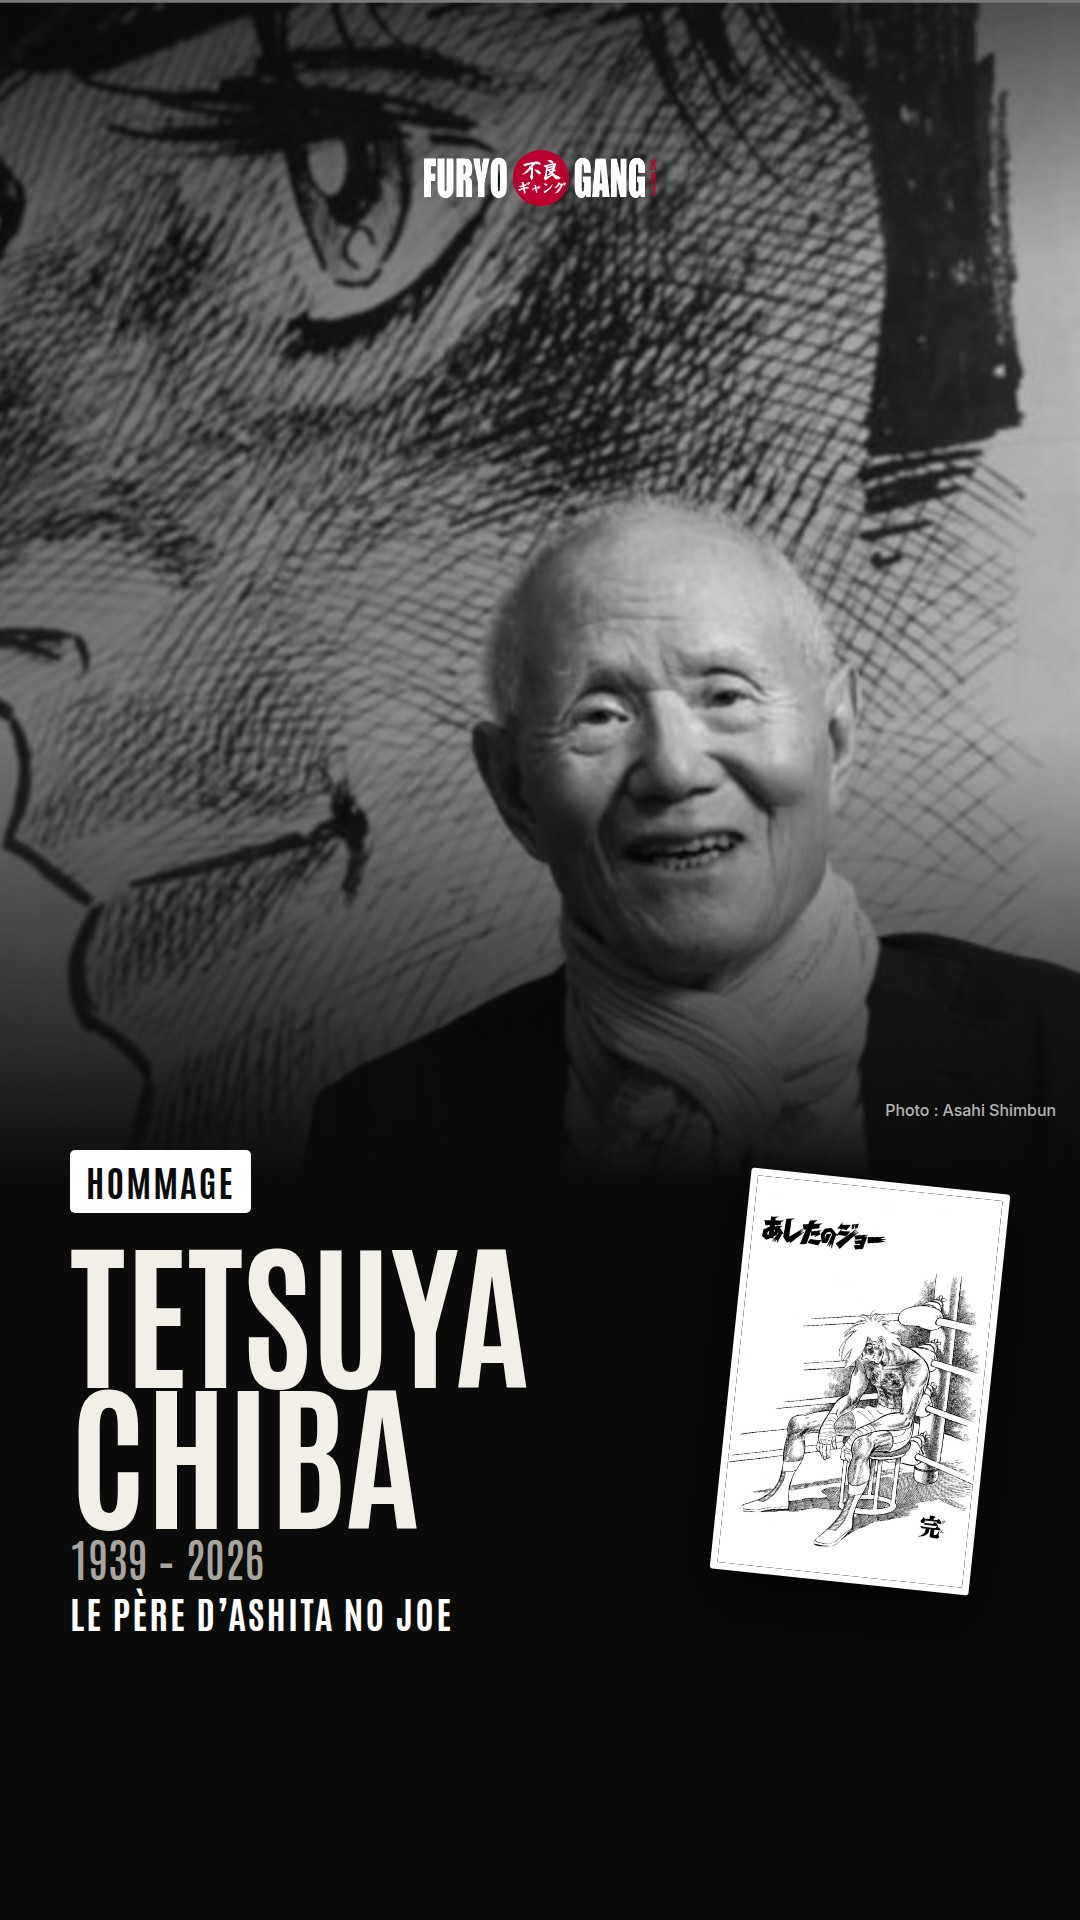
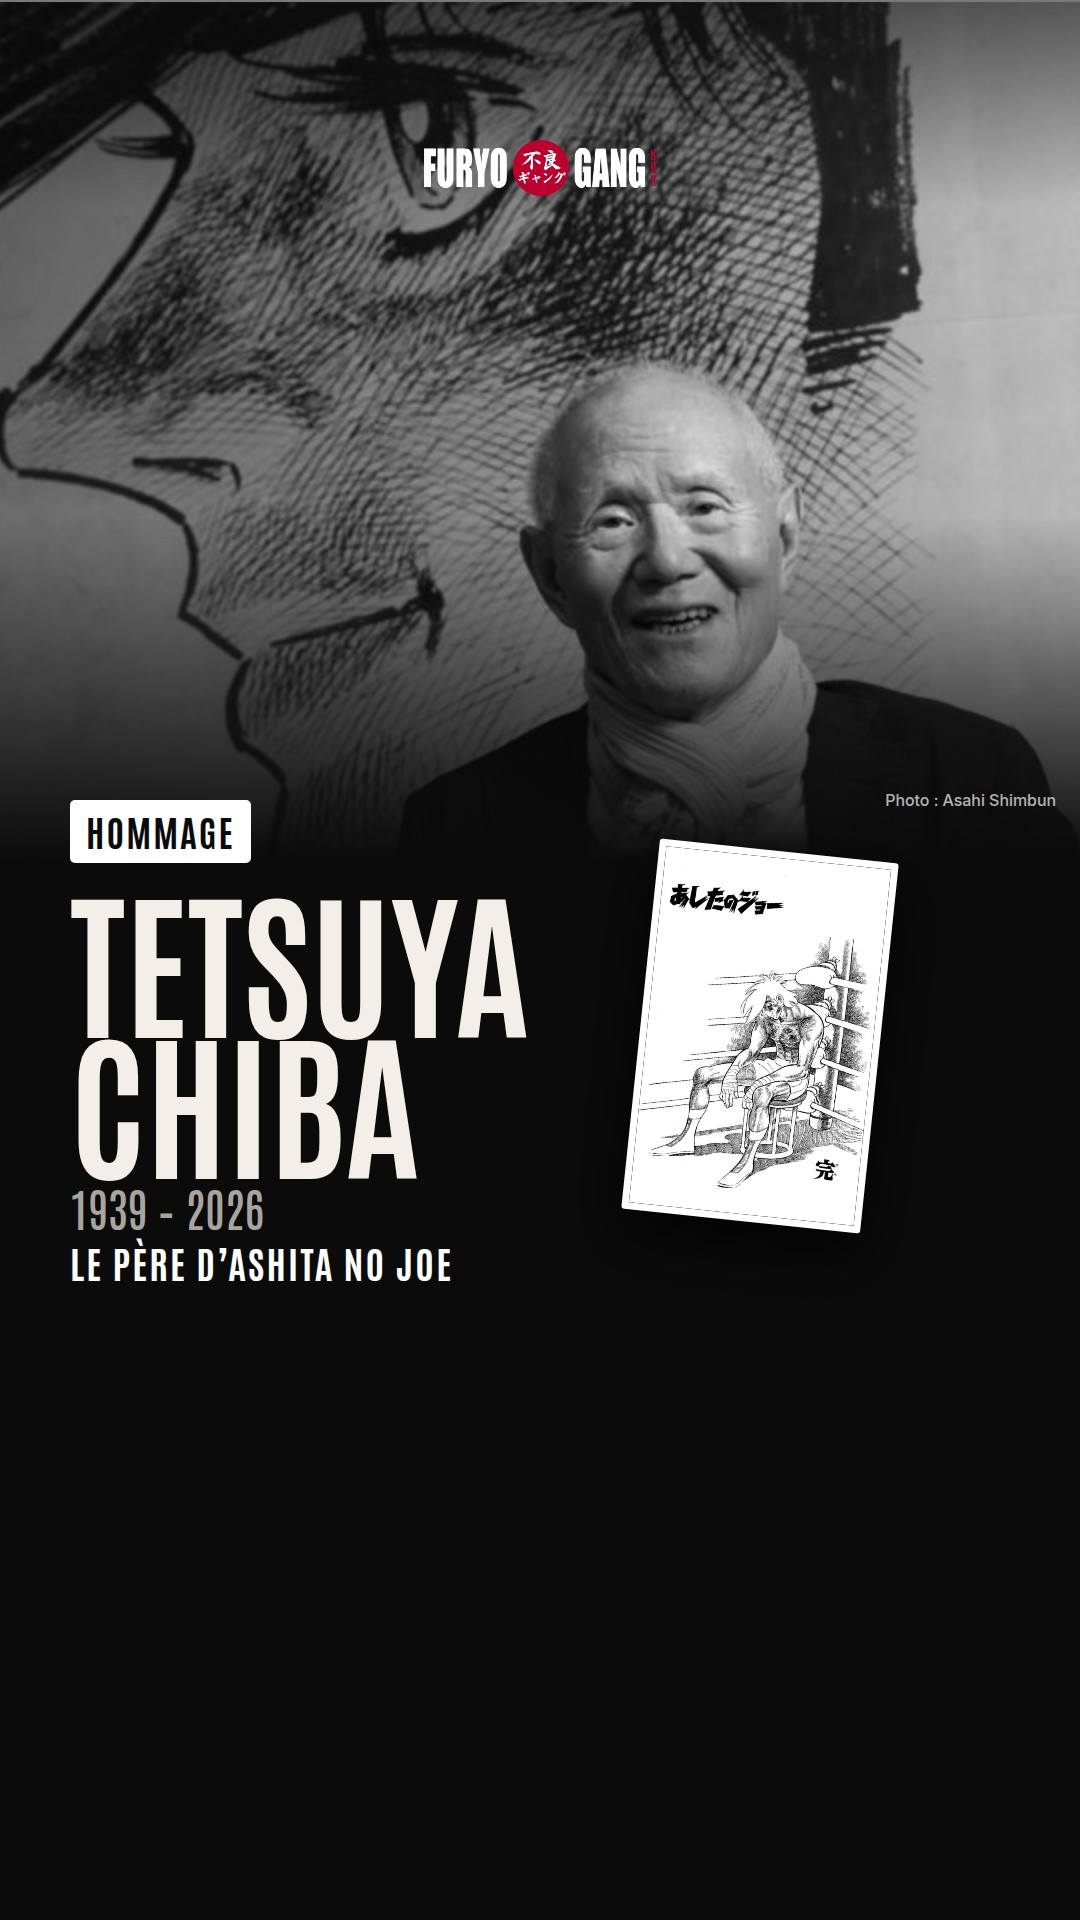
Chiba : visuel TikTok remonté (légende TikTok libre), aperçu TikTok du studio sans recadrage
Claude-Session: https://claude.ai/code/session_01ShgbxL6GpEPzbudUpDfTjj

diff --git a/hq/news/index.html b/hq/news/index.html
@@ -190,7 +190,7 @@ img{display:block}a{color:inherit}button{font-family:inherit;cursor:pointer}
   function scrX() { return '<div class="scr">' + SB + '<div class="xtop"><span>←</span><b>Post</b></div><div class="xpost"><div class="xh"><img src="' + AV + '"><div><b>FuryoGang ' + VF + '</b><small>@FuryoGang</small></div></div><p class="xt">' + hl(D.x) + '</p>' + (imgSoc() ? '<img class="xi" src="' + esc(/^data:/.test(imgSoc()) ? imgSoc() : couv(imgSoc(), 800)) + '">' : '') + '<p class="xm">' + esc(heure()) + ' · ' + esc(jourTxt()) + ' · <b>Programmé</b></p><div class="xa">' + [P.xBulle, P.xRt, P.coeur, P.xVues, P.signet, P.xPartage].map(function (d) { return SV(d, { w: 20, sw: 1.8 }); }).join("") + '</div></div></div>'; }
   function scrIG() { return '<div class="scr">' + SB + '<div class="igtop"><b>Publications</b></div><div class="igh"><img src="' + AV + '"><div><b>furyogang</b><small>' + esc((N.serie && N.serie.t) || "FuryoGang") + '</small></div><span>•••</span></div><div class="igimg"><img src="' + esc(/^data:/.test(imgSoc()) ? imgSoc() : couv(imgSoc(), 800)) + '"></div><div class="igact">' + SV(P.coeur, { w: 26 }) + SV(P.bulle, { w: 25 }) + SV(P.avion, { w: 24 }) + '<span style="margin-left:auto;display:flex">' + SV(P.signet, { w: 25 }) + '</span></div><p class="igcap"><b>furyogang</b> ' + hl(D.ig) + '</p><p class="igd">' + esc(jourTxt()) + '</p></div>'; }
   function visuelTT() {
-    if (ban() && ban().tt) return '<div class="t9"><img src="' + esc(ban().tt) + '" style="position:absolute;inset:0;width:100%;height:100%;object-fit:cover"></div>';
+    if (ban() && ban().tt) return '<div class="t9"><img src="' + esc(ban().tt) + '" style="position:absolute;inset:0;width:100%;height:100%;object-fit:contain"></div>';
     var u = esc(couv(couvSoc(), 800));
     // Étiquette sous le coin bas droit de la couverture, bordure blanche fine (Will, 26/10).
     var tag = '<div class="t9tag" style="background:' + col() + '">' + esc(N.label || "News") + '</div>';
